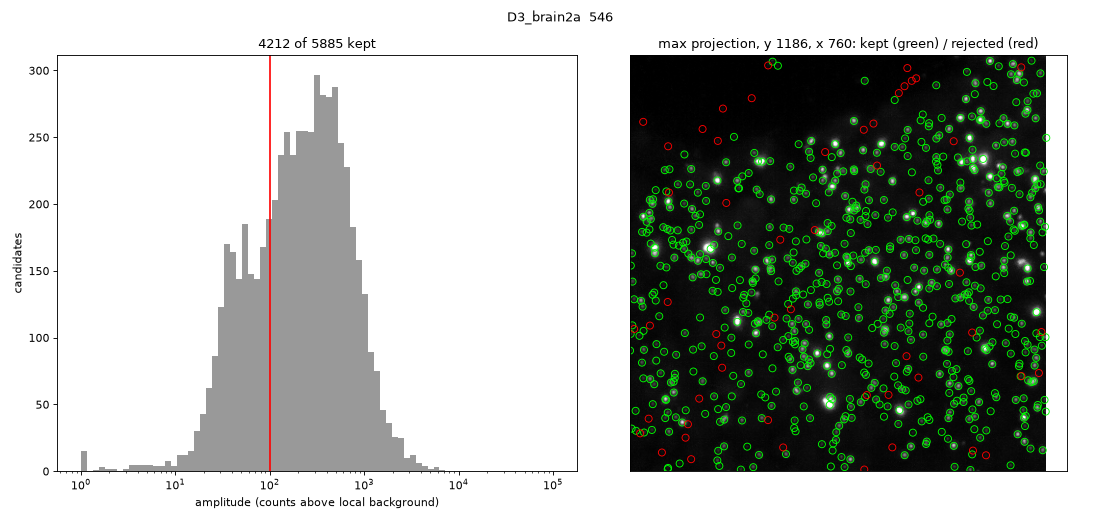
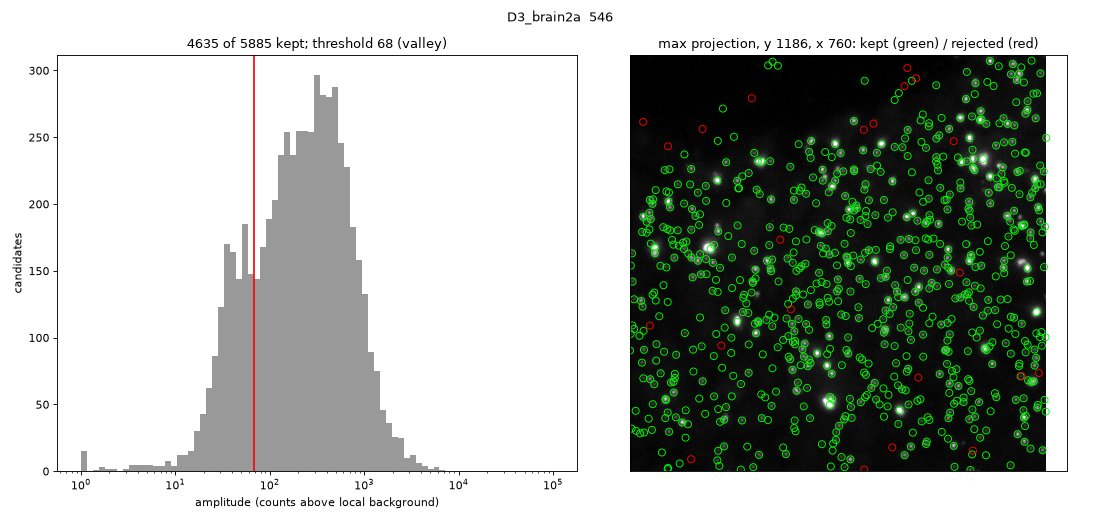
Set the spot amplitude threshold per sample; exclude A2_brain1t and non-neuron cells
- Imaging conditions differ between brains, so one min_amplitude per channel
  does not fit: each sample and channel now gets the valley between the noise
  and puncta peaks of its amplitude histogram (common.min_amplitude, config
  spot_filter, with per-sample overrides). B3/C1/D3 give 51-99 for 546 and
  43-162 for 647. Filter, inspection stacks and example figure share it.
- exclude_cells: somata with a nucleus that review showed are not neurons
  (B3 316 trachea; C3 521, 558) are dropped in aggregate.py.
- A2_brain1t is a test scan: added to exclude.
- Spot QC figures for B3 and C1; segmentation QC for A2_brain2.

Changed region(s): [[0.2188, 0.1231, 0.25, 0.8923], [0.1562, 0.0615, 0.4062, 0.0923]]

diff --git a/workflow/scripts/example_plane.py b/workflow/scripts/example_plane.py
@@ -2,7 +2,7 @@
 
 Top row: membrane, each probe and DAPI, raw (max projection over a few planes,
 about one spot deep). Bottom row: composite, each probe with its detected
-(yellow) and rejected (red, below min_amplitude) candidates, and the composite
+(yellow) and rejected (red, below the sample's amplitude threshold) candidates, and the composite
 with detected spots. A spot is drawn if its centre lies in the projected planes.
 """
 import matplotlib
@@ -13,7 +13,7 @@ import numpy as np
 import pandas as pd
 import zarr
 
-from common import channel_index, setup_logging
+from common import channel_index, min_amplitude, setup_logging
 
 log = setup_logging(snakemake)  # noqa: F821
 
@@ -39,12 +39,13 @@ def stretch(img):
 membrane = stretch(project(p.membrane_emission_nm))
 dapi = stretch(project(p.nuclei_emission_nm))
 probes = {channel: stretch(project(p.emission_nm[channel])) for channel in p.channels}
-spots = {}
+spots, threshold = {}, {}
 for channel, path in zip(p.channels, snakemake.input.candidates):
     c = pd.read_csv(path)
+    threshold[channel] = min_amplitude(c.amplitude.to_numpy(), p.spot_filter, p.overrides.get(channel))[0]
     in_box = (c.y >= y0) & (c.y < y0 + size) & (c.x >= x0) & (c.x < x0 + size)
     c = c[in_box & c.z.round().between(z0, z1)]  # spot centred in a projected plane
-    spots[channel] = (c, c.amplitude >= p.min_amplitude[channel])
+    spots[channel] = (c, c.amplitude >= threshold[channel])
 
 # Composite: green membrane, blue DAPI, then magenta and cyan for the probes.
 probe_colours = [(1, 0, 1), (0, 1, 1)]
@@ -72,7 +73,7 @@ for ax, (channel, img) in zip(axes[1, 1:-1], probes.items()):
     c, kept = spots[channel]
     ax.imshow(img, cmap="gray")
     for mask, colour, label in [(kept, "yellow", f"detected ({kept.sum()})"),
-                                (~kept, "red", f"rejected: amplitude < {p.min_amplitude[channel]} "
+                                (~kept, "red", f"rejected: amplitude < {threshold[channel]:.0f} "
                                                f"({(~kept).sum()})")]:
         ax.scatter(c.x[mask] - x0, c.y[mask] - y0, s=90, facecolors="none", edgecolors=colour,
                    linewidths=1.2, label=label)

diff --git a/workflow/scripts/filter_spots.py b/workflow/scripts/filter_spots.py
@@ -1,4 +1,8 @@
-"""Keep candidate puncta above the amplitude threshold and draw a QC figure.
+"""Keep candidate puncta above the sample's amplitude threshold and draw a QC figure.
+
+The threshold is the valley between the noise and puncta peaks of this
+sample's amplitude histogram (common.min_amplitude), unless overridden in the
+config.
 
 The figure shows the amplitude histogram with the threshold, and kept (green)
 versus rejected (red) spots on a max projection of the densest region. The
@@ -12,22 +16,26 @@ import numpy as np
 import pandas as pd
 import zarr
 
-from common import channel_index, setup_logging
+from common import channel_index, min_amplitude, setup_logging
 
 log = setup_logging(snakemake)  # noqa: F821
 
 candidates = pd.read_csv(snakemake.input.candidates)
-threshold = snakemake.params.min_amplitude
+threshold, method = min_amplitude(candidates.amplitude.to_numpy(), snakemake.params.spot_filter,
+                                  snakemake.params.override)
+if method == "fallback":
+    log.warning("no valley between noise and puncta peaks; using the fallback threshold %s", threshold)
 keep = candidates.amplitude >= threshold
 candidates[keep].to_csv(snakemake.output.spots, index=False)
-log.info("kept %d/%d candidates with amplitude >= %s", keep.sum(), len(candidates), threshold)
+log.info("kept %d/%d candidates with amplitude >= %.1f (%s)", keep.sum(), len(candidates), threshold, method)
 
 fig, (ax_hist, ax_img) = plt.subplots(1, 2, figsize=(14, 6.5))
 bins = np.logspace(0, 5, 80)
 ax_hist.hist(candidates.amplitude.clip(1, None), bins, color="0.6")
 ax_hist.axvline(threshold, color="r")
 ax_hist.set(xscale="log", xlabel="amplitude (counts above local background)", ylabel="candidates",
-            title=f"{keep.sum()} of {len(candidates)} kept")
+            title=f"{keep.sum()} of {len(candidates)} kept; threshold {threshold:.0f} ({method})"
+                  + (": NO VALLEY, CHECK" if method == "fallback" else ""))
 
 # Densest 400 x 400 px region, so the overlay shows the filter where it matters.
 store = zarr.open(snakemake.input.image, mode="r")

diff --git a/workflow/scripts/inspect_cells.py b/workflow/scripts/inspect_cells.py
@@ -11,7 +11,7 @@ Written to data/processed/<sample>/inspect/:
 
 Both stacks hold, in order: membrane, DAPI, each probe, soma labels, nuclei
 labels, soma outlines, then kept and rejected spot candidates for each probe
-(rejected = below min_amplitude). Nucleus-free cells get crops because, with
+(rejected = below the sample's amplitude threshold). Nucleus-free cells get crops because, with
 no nucleus to confirm them, they are the ones the shape filter decides.
 """
 import os
@@ -28,7 +28,7 @@ from scipy import ndimage as ndi
 from skimage.measure import block_reduce
 from skimage.segmentation import find_boundaries
 
-from common import channel_index, setup_logging
+from common import channel_index, min_amplitude, setup_logging
 
 log = setup_logging(snakemake)  # noqa: F821
 
@@ -49,6 +49,8 @@ soma = tifffile.imread(snakemake.input.soma)
 nuclei = tifffile.imread(snakemake.input.nuclei)
 cells = pd.read_csv(snakemake.input.table)
 candidates = {channel: pd.read_csv(path) for channel, path in zip(p.channels, snakemake.input.candidates)}
+threshold = {channel: min_amplitude(c.amplitude.to_numpy(), p.spot_filter, p.overrides.get(channel))[0]
+             for channel, c in candidates.items()}
 names = list(raw) + ["soma_labels", "nuclei_labels", "soma_outline"] + \
         [f"{channel}_{kind}" for channel in p.channels for kind in ("kept", "rejected")]
 
@@ -61,7 +63,7 @@ def spot_marks(shape, lo, scale):
     footprint[0] = np.hypot(*np.mgrid[-2:3, -2:3]) <= 2
     for channel in p.channels:
         c = candidates[channel]
-        kept = c.amplitude >= p.min_amplitude[channel]
+        kept = c.amplitude >= threshold[channel]
         for mask in (kept, ~kept):
             idx = np.floor((c.loc[mask, ["z", "y", "x"]].to_numpy() - lo) / scale).astype(int)
             idx = idx[np.all((idx >= 0) & (idx < shape), axis=1)]

diff --git a/workflow/scripts/common.py b/workflow/scripts/common.py
@@ -5,6 +5,10 @@ Snakemake puts the script's directory on sys.path, so these import normally.
 import logging
 import sys
 
+import numpy as np
+from scipy.signal import find_peaks
+from scipy.stats import gaussian_kde
+
 
 def setup_logging(snakemake):
     """Send stdout/stderr and logging output to the rule's log file."""
@@ -27,3 +31,26 @@ def channel_index(store, emission_nm, tolerance_nm=15):
             f"(+/- {tolerance_nm}), found {matches} in {recorded}"
         )
     return matches[0]
+
+
+def min_amplitude(amplitudes, spot_filter, override=None):
+    """Amplitude threshold for one sample and channel, and how it was set.
+
+    The lowest point of the smoothed log10-amplitude histogram between the
+    noise peak (the first peak) and the puncta peak (the tallest after it).
+    Returns (threshold, method) with method "valley", "override" or "fallback"
+    (no second peak, so no valley).
+    """
+    if override is not None:
+        return float(override), "override"
+    x = np.log10(amplitudes[amplitudes >= 2])  # a spike of candidates sits at ~1
+    if len(x) < 10:
+        return float(spot_filter["fallback"]), "fallback"
+    grid = np.linspace(np.log10(2), x.max(), 500)
+    density = gaussian_kde(x, bw_method=spot_filter["smoothing"])(grid)
+    peaks, _ = find_peaks(density, prominence=spot_filter["min_prominence"] * density.max())
+    if len(peaks) < 2:
+        return float(spot_filter["fallback"]), "fallback"
+    noise, puncta = peaks[0], peaks[1:][np.argmax(density[peaks[1:]])]
+    valley = noise + np.argmin(density[noise:puncta + 1])
+    return float(10 ** grid[valley]), "valley"

diff --git a/workflow/scripts/aggregate.py b/workflow/scripts/aggregate.py
@@ -2,7 +2,9 @@
 
 Only somata with a detected nucleus are counted. Nucleus-free cells stay in
 each sample's cells.csv and counts.csv (has_nucleus = False) for inspection,
-but most turned out to be dendrites, axons, trachea or fat globules.
+but most turned out to be dendrites, axons, trachea or fat globules. Cells
+listed under exclude_cells in the config (found not to be neurons on review)
+are dropped too.
 """
 import pandas as pd
 
@@ -13,6 +15,13 @@ log = setup_logging(snakemake)  # noqa: F821
 frames = [pd.read_csv(path) for path in snakemake.input]
 combined = pd.concat(frames, ignore_index=True)
 combined = combined[combined["has_nucleus"]].copy()
+for sample, ids in snakemake.params.exclude_cells.items():
+    present = set(combined.loc[combined["sample"] == sample, "cell_id"])
+    missing = set(ids) - present
+    if missing:  # a re-segmentation may have renumbered the cells
+        log.warning("%s: excluded cells %s not among its counted cells", sample, sorted(missing))
+    combined = combined[~((combined["sample"] == sample) & combined["cell_id"].isin(ids))]
+    log.info("%s: excluded cells %s", sample, sorted(set(ids) & present))
 combined["spots_per_100um3"] = (
     100 * combined["n_spots"] / combined["soma_volume_um3"].clip(lower=1)
 )

diff --git a/README.md b/README.md
@@ -31,8 +31,8 @@ The 546 and 647 nm channels are the mRNA probes, as described in the second tabl
 The fourth channel is DAPI staining.
 
 ## Analysis approach
-1. Determine which voxels map to the neuron of interest (somata only so far; neurites are not yet included). The membrane channel is thresholded (globally, and relative to the brightest membrane nearby, to cut out-of-focus glow), filled, and stripped of neurites by a morphological opening. [Cellpose](https://github.com/MouseLand/cellpose) segments nuclei in DAPI, and a nucleus whose core lies inside the filled membrane belongs to a labelled neuron; each soma is the filled membrane nearest its nucleus. Only somata with a nucleus are counted. Soma-sized filled objects without a nucleus are kept in `cells.csv` with `has_nucleus = False` for inspection (if thick and evenly filled with membrane signal), but are left out of `results/tables/spot_counts.csv`: on visual review of 6 samples, 4 of 14 were somata and the rest were dendrites, axons, trachea or fat globules. Per-sample QC figures are written to `results/figures/segmentation/`.
-2. Localize the mRNAs. [Spotiflow](https://github.com/weigertlab/spotiflow)'s pretrained 3D smFISH model proposes puncta, and candidates whose peak is less than `min_amplitude` counts above the local background are dropped (`config/config.yaml`). Spotiflow was chosen over a Laplacian-of-Gaussian detector (Big-FISH) because it ignores the defocus rings around bright puncta, which Big-FISH picks up. RS-FISH was not benchmarked. Per-sample QC plots are written to `results/figures/spots/`.
+1. Determine which voxels map to the neuron of interest (somata only so far; neurites are not yet included). The membrane channel is thresholded (globally, and relative to the brightest membrane nearby, to cut out-of-focus glow), filled, and stripped of neurites by a morphological opening. [Cellpose](https://github.com/MouseLand/cellpose) segments nuclei in DAPI, and a nucleus whose core lies inside the filled membrane belongs to a labelled neuron; each soma is the filled membrane nearest its nucleus. Only somata with a nucleus are counted. Soma-sized filled objects without a nucleus are kept in `cells.csv` with `has_nucleus = False` for inspection (if thick and evenly filled with membrane signal), but are left out of `results/tables/spot_counts.csv`: on visual review of 6 samples, 4 of 14 were somata and the rest were dendrites, axons, trachea or fat globules. Somata with a nucleus that review showed are not neurons are listed under `exclude_cells` in `config/config.yaml` and dropped from the same table. Per-sample QC figures are written to `results/figures/segmentation/`.
+2. Localize the mRNAs. [Spotiflow](https://github.com/weigertlab/spotiflow)'s pretrained 3D smFISH model proposes puncta, and candidates whose peak above the local background is below a per-sample threshold are dropped. Imaging conditions differ between brains, so the threshold is set for each sample and channel at the valley between the noise and puncta peaks of its amplitude histogram (`spot_filter` in `config/config.yaml`, where it can be overridden). Spotiflow was chosen over a Laplacian-of-Gaussian detector (Big-FISH) because it ignores the defocus rings around bright puncta, which Big-FISH picks up. RS-FISH was not benchmarked. Per-sample QC plots are written to `results/figures/spots/`.
 3. Colocalize the mRNAs with the neuron voxels to determine how many mRNAs are in each cell type. Each spot in a soma is tagged nuclear or cytoplasmic, or unknown in a soma without a detected nucleus. Neurites are measured separately, as one compartment per sample: a full-resolution membrane mask minus the somata gives the spot density in the line's processes, compared with the density in a 1–3 µm shell of surrounding tissue (`results/tables/neurite_counts.csv`, QC in `results/figures/neurites/`). Enrichment near 1 means the neurites hold no more spots than the neuropil they run through. A labelled soma the segmentation misses is counted as neurite.
 ## Inspecting results
 - `snakemake data/processed/<sample>/inspect` writes Fiji hyperstacks for one sample: the whole field on the segmentation grid, and full-resolution crops (with PNGs) of each nucleus-free cell. Channels are membrane, DAPI, each probe, soma and nucleus labels, soma outlines, and kept and rejected spot candidates per probe. It runs spot detection for the sample if needed.
